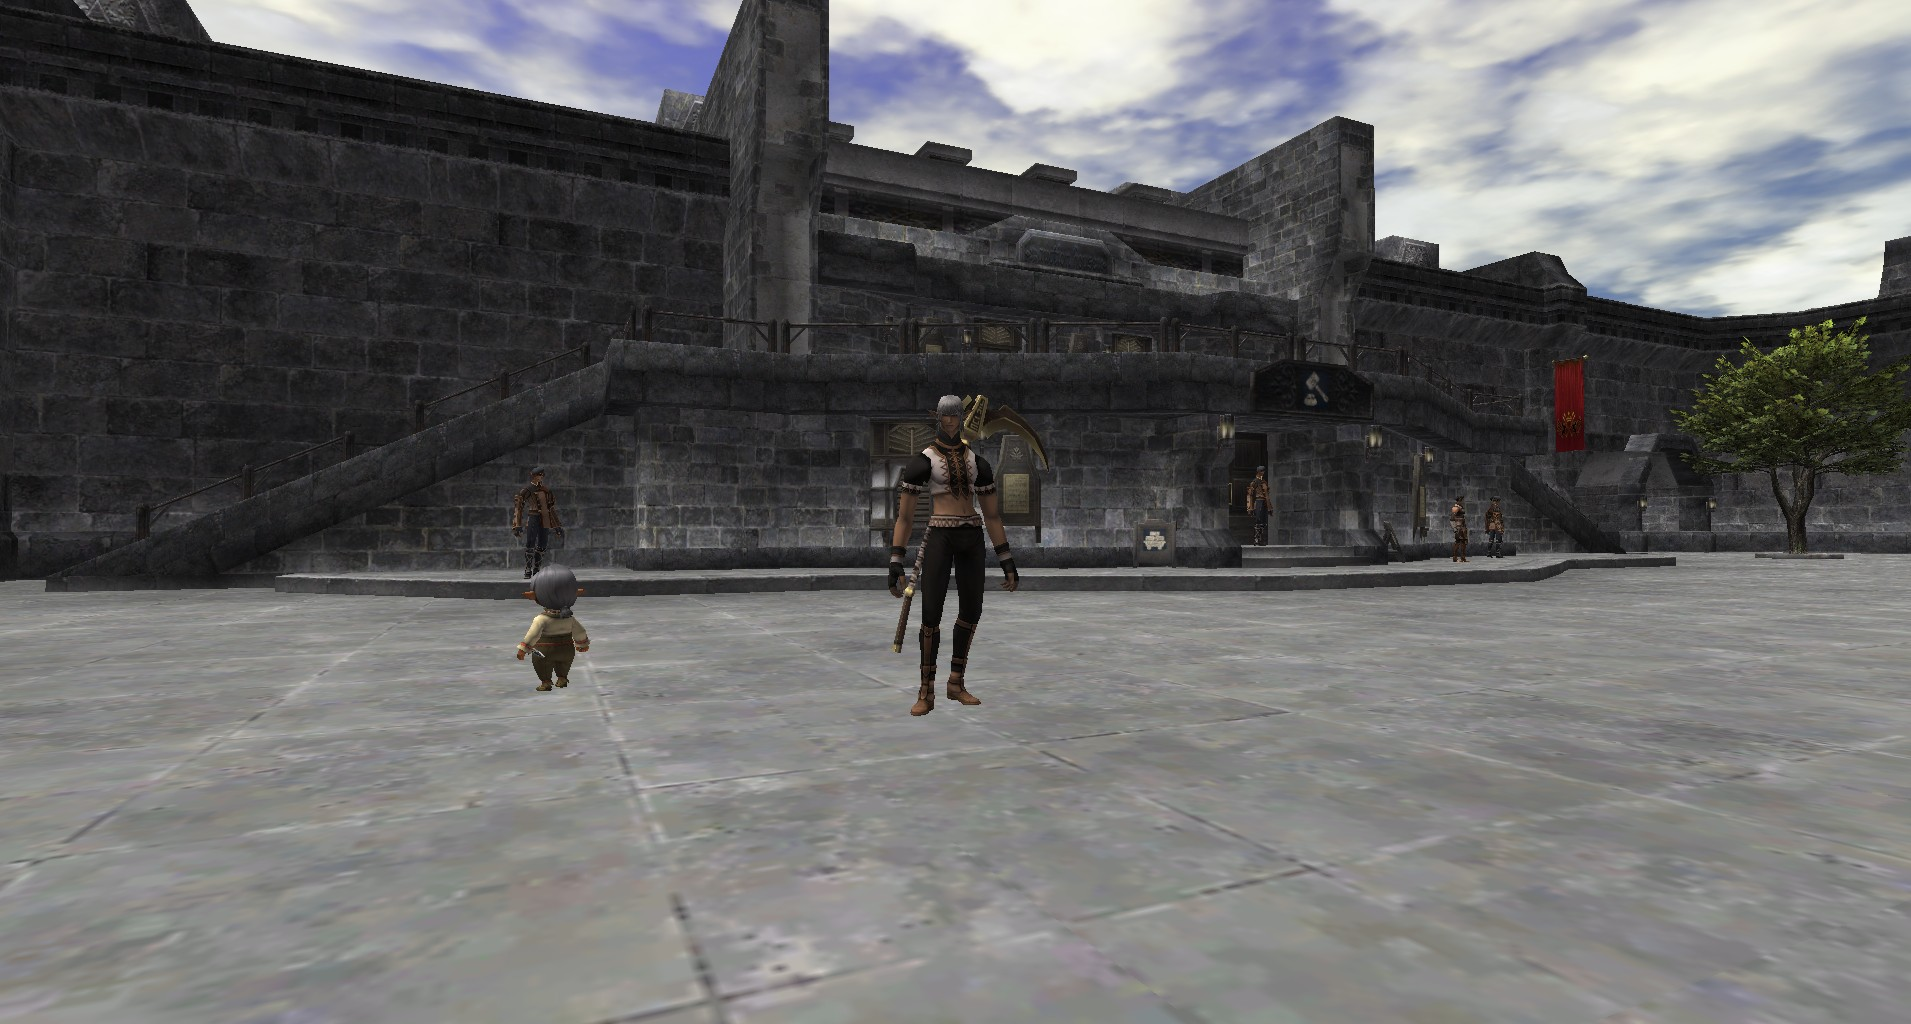
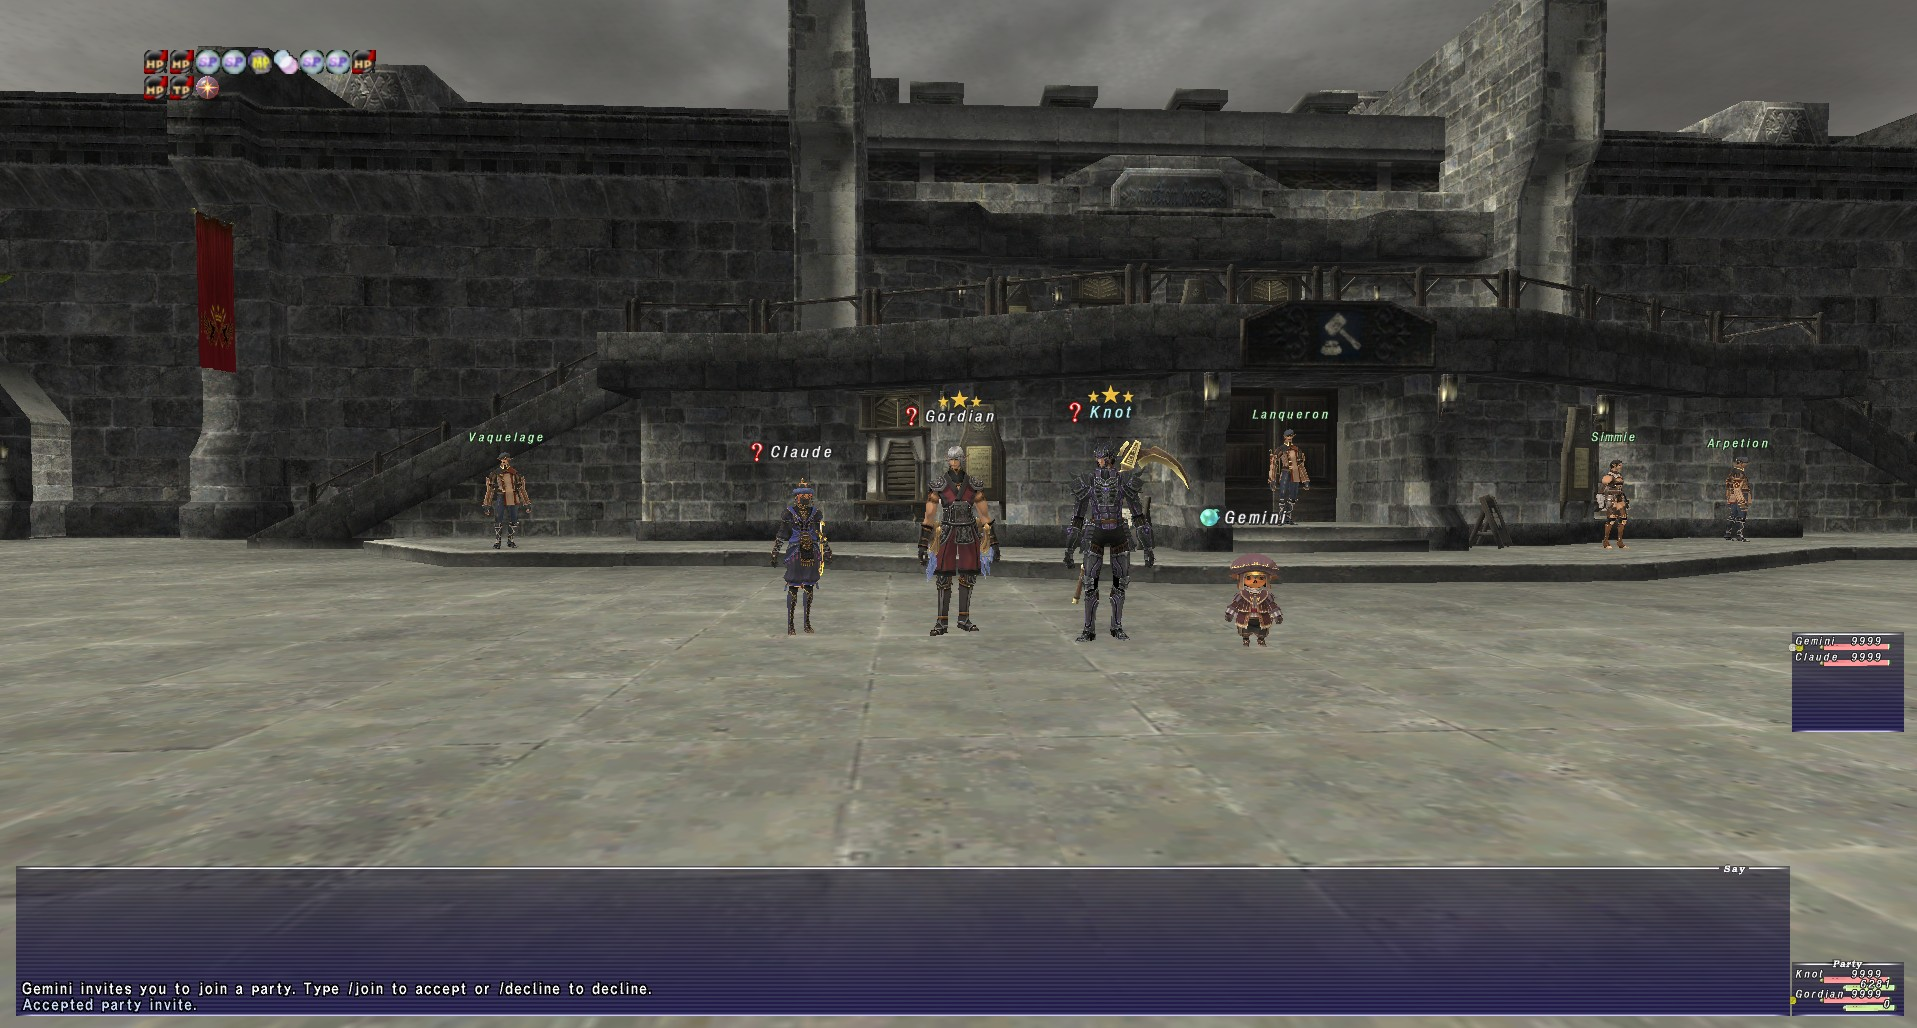
Party frames: read name-sized S2C 0x0DD group lists (#159) (#161)
* Party frames: read name-sized S2C 0x0DD group lists (#159)

LandSandBoat sizes 0x0DD to the member's name (Name[16] cut to the name
rounded up to 4, plus 4 bytes of padding), but the decoder required a
52-byte payload. Every member with a name under 12 letters was dropped,
name and vitals, so party and alliance rows had no name. Accept any payload
that holds the 36 fixed bytes and read the name from what is there.

* Update images

---------

diff --git a/tests/Gordian.Core.Tests/Network/PartyPacketTests.cs b/tests/Gordian.Core.Tests/Network/PartyPacketTests.cs
@@ -274,6 +274,59 @@ namespace Gordian.Core.Tests.Network
             Assert.False(partyState.HasPendingInvite);
         }
     
+        /// <summary>
+        /// A 0x0DD payload as LandSandBoat sizes it: the 36 fixed bytes, then the name padded to a multiple of 4 plus
+        /// 4 more bytes (0x0dd_group_list.cpp).
+        /// </summary>
+        private static byte[] NameSizedGroupList(uint uniqueNo, string name)
+        {
+            int nameSize = Math.Min(name.Length, 16);
+            byte[] payload = new byte[36 + ((nameSize + 3) / 4 * 4) + 4];
+            BinaryPrimitives.WriteUInt32LittleEndian(payload.AsSpan(0, 4), uniqueNo);
+            BinaryPrimitives.WriteUInt32LittleEndian(payload.AsSpan(4, 4), 1234); // Hp
+            payload[25] = 80; // Hpp
+            Encoding.ASCII.GetBytes(name.Substring(0, nameSize)).CopyTo(payload.AsSpan(36));
+            return payload;
+        }
+
+        [Theory]
+        [InlineData("Knot", 44)]
+        [InlineData("Gordian", 48)]
+        [InlineData("Tarudrake", 52)]
+        [InlineData("Abcdefghijklmnop", 56)]
+        public void S2C_0x0DD_GroupList_ReadsNameSizedPackets(string name, int payloadLength)
+        {
+            byte[] payload = NameSizedGroupList(1002, name);
+            Assert.Equal(payloadLength, payload.Length);
+
+            var list = new S2C_0x0DD_GroupList(payload);
+
+            Assert.True(list.IsValid);
+            Assert.Equal(1234u, list.Hp);
+            Assert.Equal(name, list.GetName());
+        }
+
+        [Fact]
+        public void S2C_0x0DD_GroupList_RejectsAPayloadShorterThanTheFixedFields()
+        {
+            Assert.False(new S2C_0x0DD_GroupList(new byte[35]).IsValid);
+        }
+
+        [Fact]
+        public void GroupList_ForAShortName_NamesThePartyMember()
+        {
+            var party = new PartyState();
+            var dispatcher = new PacketDispatcher();
+            new PartyPacketModule(party, (_, _) => Task.CompletedTask).Register(dispatcher);
+
+            byte[] payload = NameSizedGroupList(1002, "Knot");
+            dispatcher.Dispatch(new PacketHeader(S2C_0x0DD_GroupList.PacketId, (ushort)(payload.Length + 4), 1), payload);
+
+            var knot = party.Members.Single(m => m.ServerId == 1002);
+            Assert.Equal("Knot", knot.Name);
+            Assert.Equal(1234u, knot.Hp);
+        }
+
         [Fact]
         public void PartyVitals_SurviveRosterUpdates_AndFollowGroupAttr()
         {

diff --git a/src/Gordian.Core/Network/Packets/PartyPackets.cs b/src/Gordian.Core/Network/Packets/PartyPackets.cs
@@ -161,7 +161,11 @@ namespace Gordian.Core.Network.Packets
 
     /// <summary>
     /// S2C 0x0DD (GP_SERV_COMMAND_GROUP_LIST): Detailed Party Member Information.
-    /// Protocol specification referenced from LandSandBoat (https://github.com/LandSandBoat/server/blob/base/src/map/packets/s2c/0x0dd_group_list.h).
+    /// The packet is sized to the name: the fixed fields end at payload 36, and the 16-byte <c>Name</c> is cut to the
+    /// name's length rounded up to 4 plus 4 bytes of padding (a 7-letter name gives a 48-byte payload). XiPackets lists
+    /// the size as varying.
+    /// Protocol specification referenced from LandSandBoat (https://github.com/LandSandBoat/server/blob/base/src/map/packets/s2c/0x0dd_group_list.h)
+    /// and XiPackets (https://github.com/atom0s/XiPackets/tree/main/world/server/0x00DD).
     /// </summary>
     public readonly ref struct S2C_0x0DD_GroupList
     {
@@ -197,10 +201,14 @@ namespace Gordian.Core.Network.Packets
 
         private readonly ReadOnlySpan<byte> _payload;
 
+        /// <summary>Where the name starts; also the length of the fixed fields.</summary>
+        private const int NameOffset = 36;
+        private const int NameLength = 16;
+
         public S2C_0x0DD_GroupList(ReadOnlySpan<byte> payload)
         {
             _payload = payload;
-            if (payload.Length < 52)
+            if (payload.Length < NameOffset)
             {
                 UniqueNo = 0;
                 Hp = 0;
@@ -247,8 +255,8 @@ namespace Gordian.Core.Network.Packets
 
         public string GetName()
         {
-            if (!IsValid || _payload.Length < 52) return string.Empty;
-            var nameSlice = _payload.Slice(36, Math.Min(16, _payload.Length - 36));
+            if (!IsValid) return string.Empty;
+            var nameSlice = _payload.Slice(NameOffset, Math.Min(NameLength, _payload.Length - NameOffset));
             int nullIdx = nameSlice.IndexOf((byte)0);
             if (nullIdx >= 0) nameSlice = nameSlice.Slice(0, nullIdx);
             return Encoding.ASCII.GetString(nameSlice);

diff --git a/docs/network/session-and-packets.md b/docs/network/session-and-packets.md
@@ -77,6 +77,7 @@ Fixed since the audit:
   - `0x037`: `dead_counter1` (56) is the homepoint countdown in 1/60 s ticks plus 6 minutes (LSB `char_status.cpp`); seconds left = ticks / 60 - 360.
   - `0x030`: `EffectNum` (6) is the crystal's element, `0x10` Water to `0x17` Dark (LSB `enums/synthesis_effect.h`); `Type` (8) carries the result, 0 fail, 1 success, 2-4 HQ tiers (LSB `SYNTHESIS_RESULT`).
   - `0x0E2`: the fixed fields end at 36 and the packet is sized to the name, so short names are valid (XiPackets). The old 44-byte guard dropped names under about 8 letters.
+  - `0x0DD` is sized to the name the same way (#159). LSB `0x0dd_group_list.cpp` cuts `Name[16]` (36) to the name rounded up to 4, plus 4 bytes of padding, so "Knot" arrives as a 44-byte payload. The old 52-byte guard dropped every member with a name under 12 letters, both name and vitals, so the party and alliance rows showed no name. Checked in `logs/gordian_system_20260929.log`: only the 9-letter Tarudrake produced member updates. The other LSB S2C packets sized to a string are `0x017` (guarded on its fixed part only) and `0x04D`, `0x078`, `0x079` (not decoded yet).
   - `0x0FA`: the references disagree. XiPackets: u32 item 0, u32 result 4, index 8, category 9. LSB's unpacked struct: u16 item 0, u8 result 2, index 6, category 7. Bytes 6-7 are always 0 in the XiPackets layout, so the decoder picks the layout from them.
   - `0x00E`: the u16 at `0x2C` is `SubKind:3 | Status:13`, so look size is its low 3 bits. `AnimationSub` is flags3 `MonStat`, the low 3 bits of `0x26`. The elevator `EndTime` (`0x38`) is a u32 (LSB fills its low byte). Names are `Name[16]`, read from one of three places (XiPackets "Entity Name"): `0x40` for SubKind 1 with the `Name2` flag; `0x31` for a static NPC (index < 1024) whose `HasName` byte at `0x30` is 1; otherwise `0x30`, which is where LSB puts every NPC and mob name. Monster or NPC (both below index 1024) is `Flags1.MonsterFlag`, bit 0 of packet byte `0x20`: LSB writes the entity status there in every update, `Update` (1) for mob-allegiance entities and `Normal` (0) for NPCs (`CBaseEntity::Spawn`); packet byte `0x25` is `Flags2.g`, the hitbox size x 10, not a living-mob flag (a Marine Dhalmel with hitbox 37 lacks its bit 0x08; #133, in-game 2026-09-29).
   - `0x077`: the data is a UniqueNo list only when `Flags` (0) is 1; other flag values are ignored.
